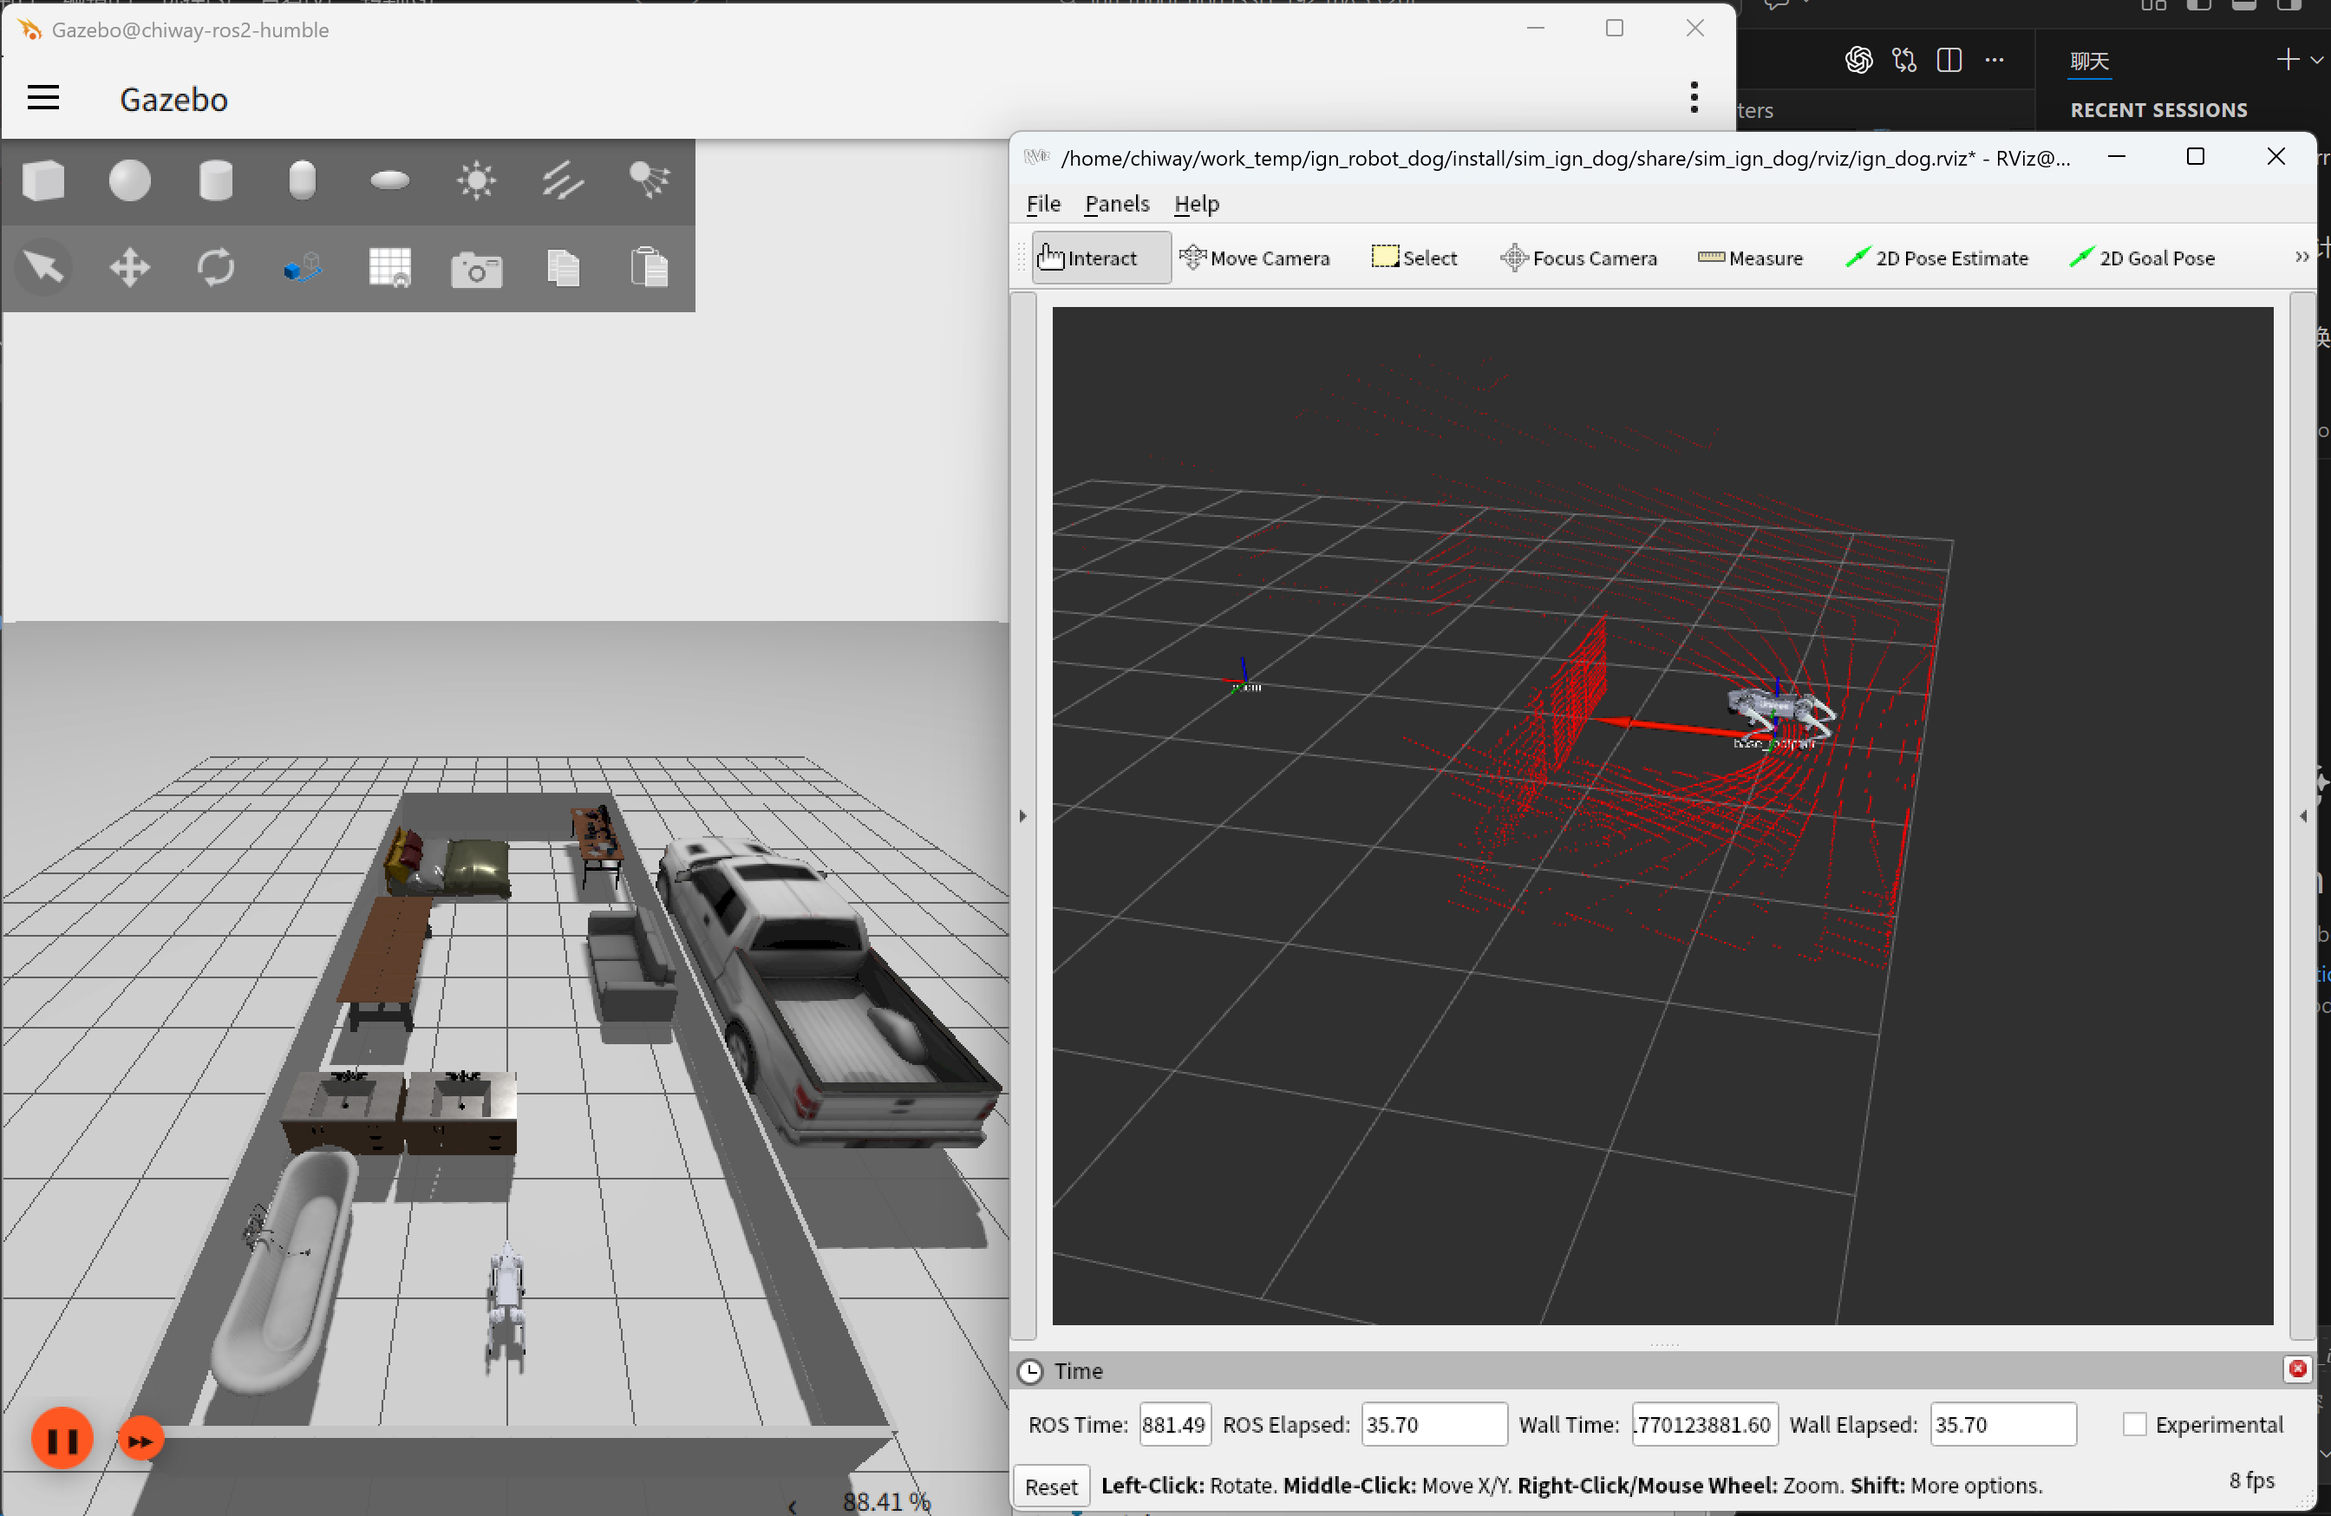
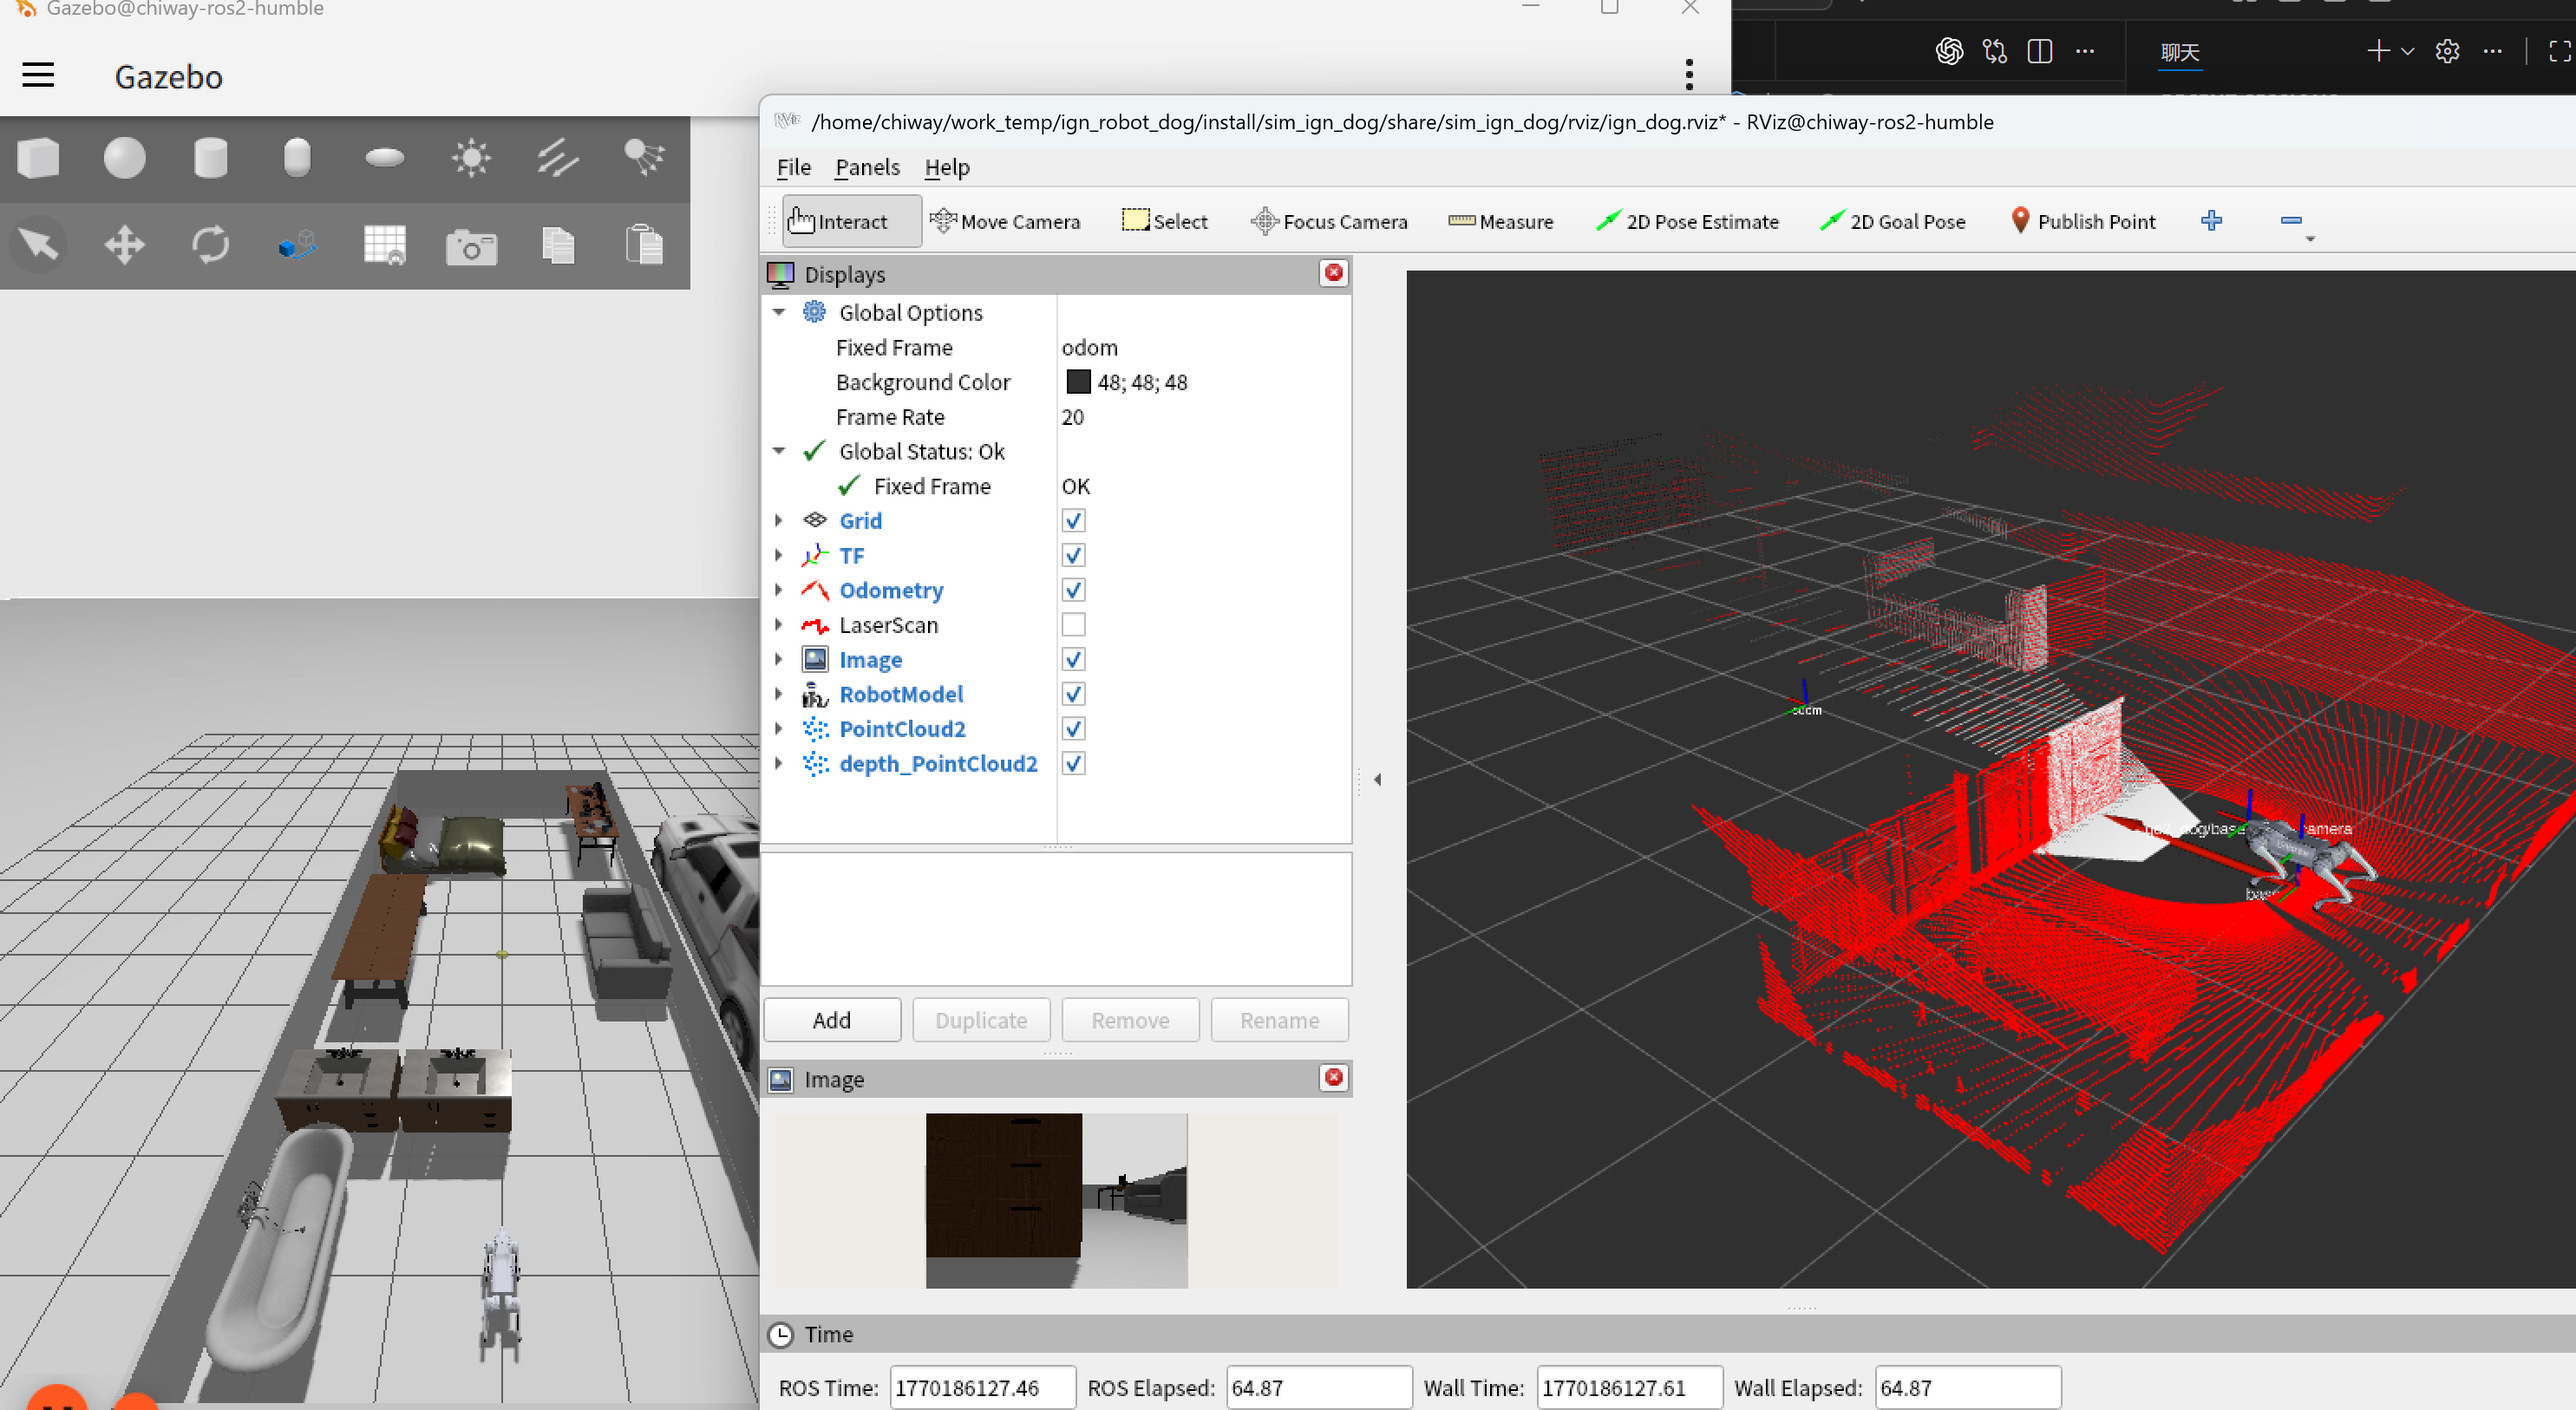
更新

diff --git a/README.md b/README.md
@@ -1,6 +1,15 @@
 使用champ开源算法,实现宇树机器狗go2的ign-gazebo仿真
 ===
 分支 ign_robot_dog_Agibot 为智元机器狗仿真
+## 仿真参数说明
+若ign卡顿,请降低雷达参数
+- 多线雷达
+```
+64线 水平采样点2048
+垂直采样点64
+水平视场角360度
+```
+- 深度相机
 ## 使用方式
 - 安装依赖
 ```
